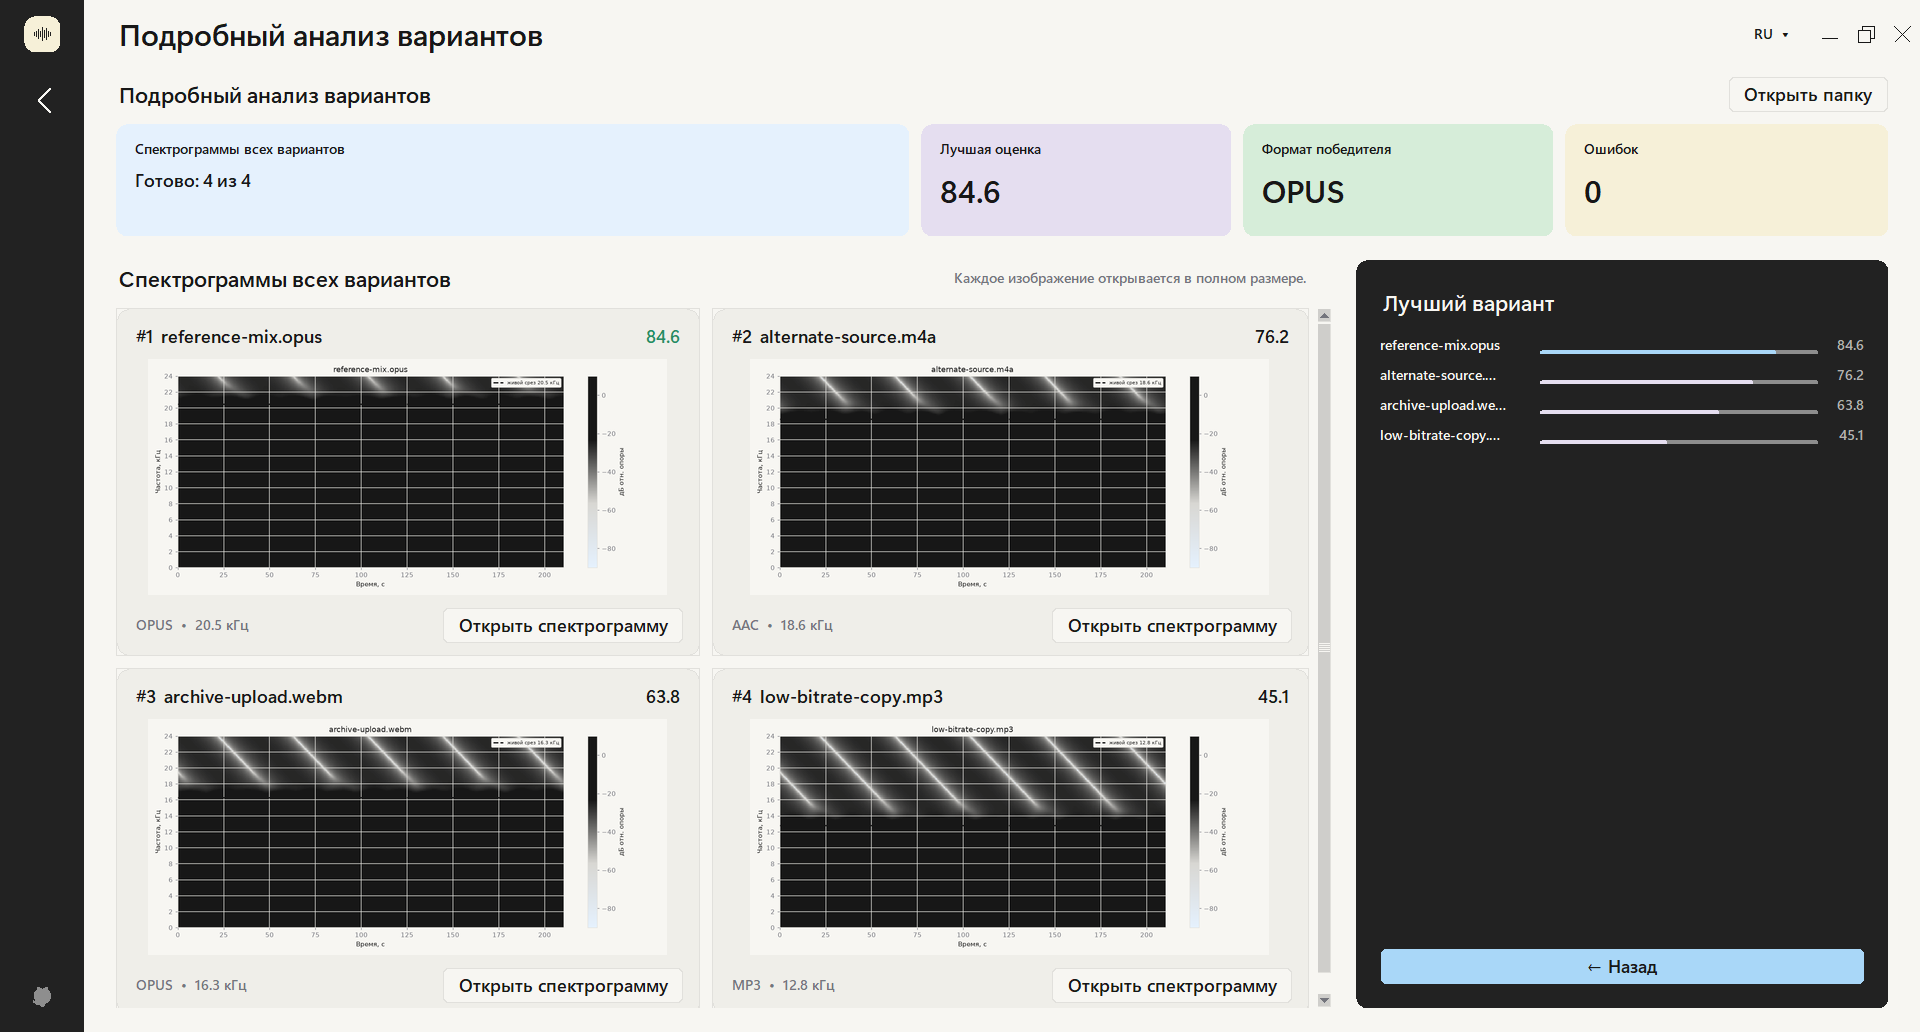
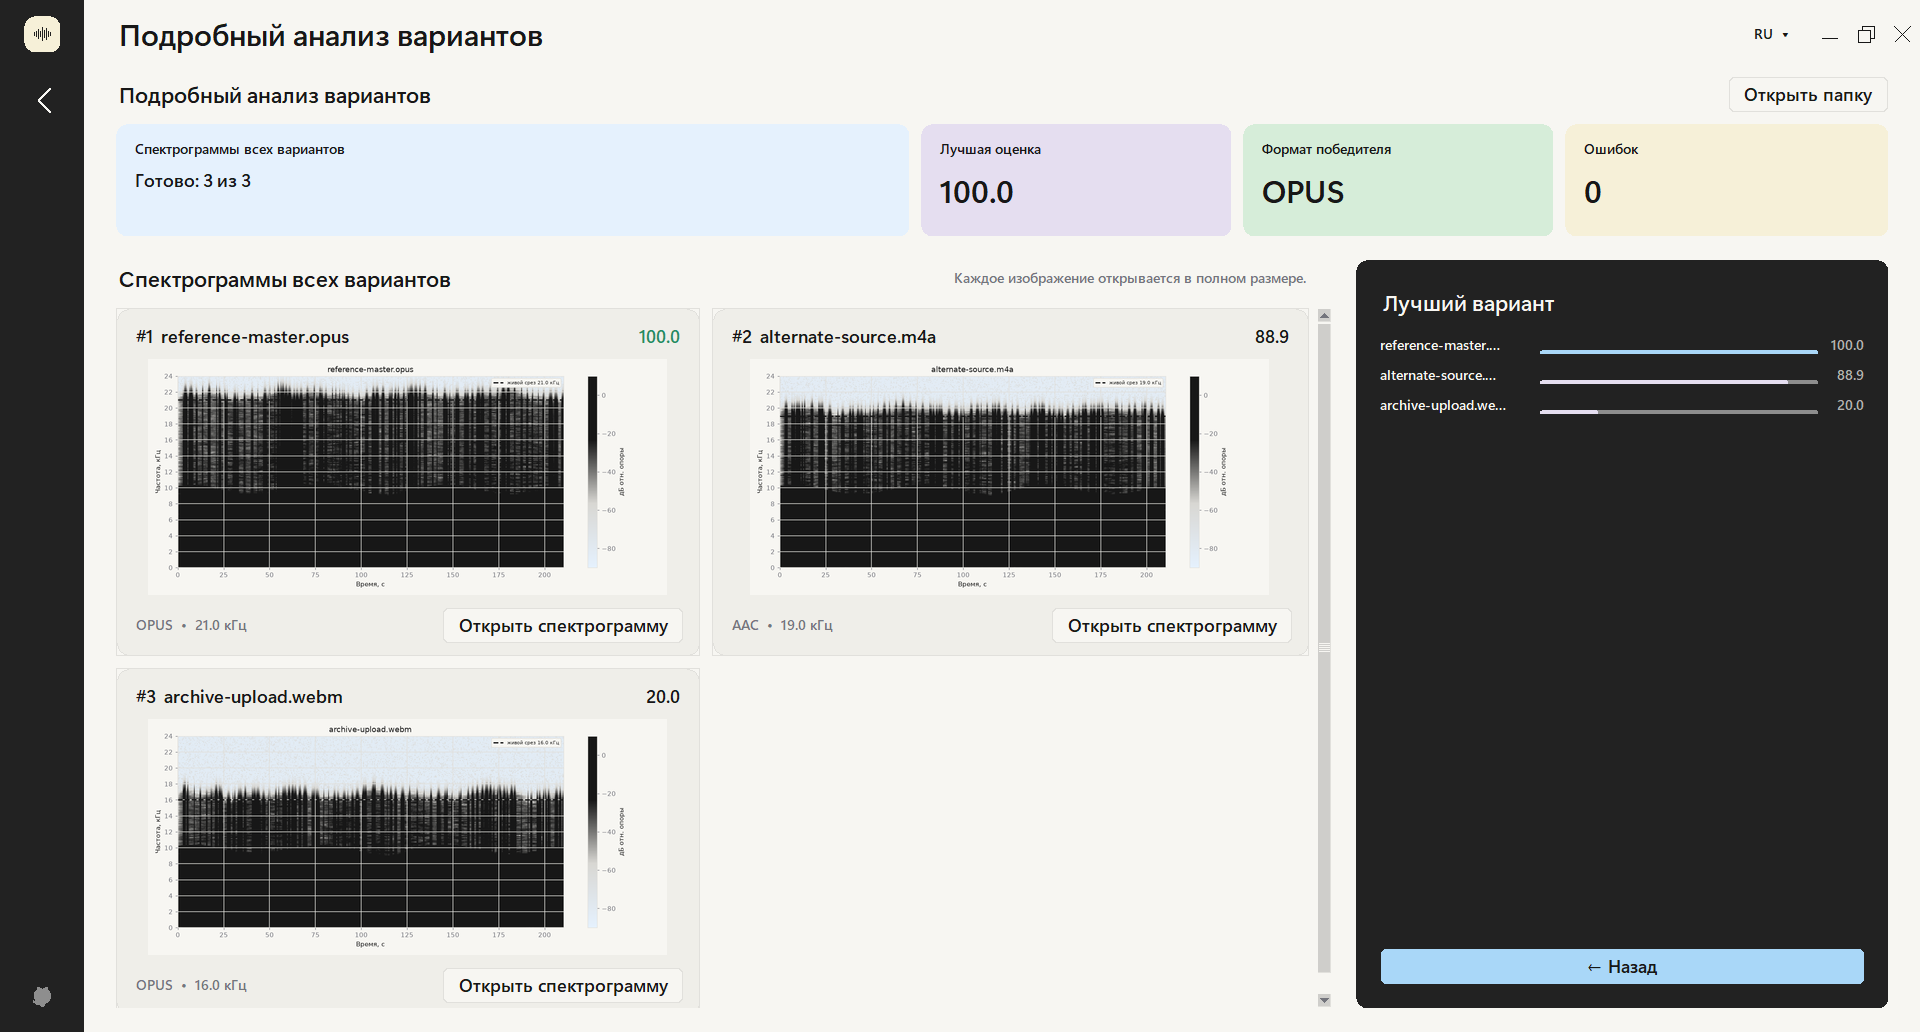
Release TrackJudge v1.2.1 evidence fix

diff --git a/src/trackjudge/gui.py b/src/trackjudge/gui.py
@@ -4717,56 +4717,130 @@ def _show_startup_error(message: str) -> None:
 
 
 def _prepare_analysis_preview(window: TrackJudgeWindow) -> None:
-    """Create realistic local spectrograms for visual regression screenshots."""
+    """Create an internally consistent demo report for visual regression screenshots."""
     import numpy as np
 
     preview_folder = tempfile.mkdtemp(prefix="trackjudge-analysis-preview-")
     candidates = [
         {
             "rank": 1,
-            "file_name": "reference-mix.opus",
+            "file_name": "reference-master.opus",
             "codec": "opus",
-            "score": 84.6,
-            "effective_cutoff_hz": 20500.0,
+            "score": 100.0,
+            "effective_cutoff_hz": 21000.0,
         },
         {
             "rank": 2,
             "file_name": "alternate-source.m4a",
             "codec": "aac",
-            "score": 76.2,
-            "effective_cutoff_hz": 18600.0,
+            "score": 88.9,
+            "effective_cutoff_hz": 19000.0,
         },
         {
             "rank": 3,
             "file_name": "archive-upload.webm",
             "codec": "opus",
-            "score": 63.8,
-            "effective_cutoff_hz": 16300.0,
-        },
-        {
-            "rank": 4,
-            "file_name": "low-bitrate-copy.mp3",
-            "codec": "mp3",
-            "score": 45.1,
-            "effective_cutoff_hz": 12800.0,
+            "score": 20.0,
+            "effective_cutoff_hz": 16000.0,
         },
     ]
     frequencies = np.linspace(0.0, 24000.0, 180)
     times = np.linspace(0.0, 210.0, 420)
     for index, candidate in enumerate(candidates):
         cutoff = float(candidate["effective_cutoff_hz"])
-        envelope = np.exp(-frequencies / (9000.0 - index * 900.0))
-        envelope *= 1.0 / (1.0 + np.exp((frequencies - cutoff) / 320.0))
-        rhythm = 0.34 + 0.66 * np.square(np.sin(times * (0.17 + index * 0.012)))
-        harmonics = 0.72 + 0.28 * np.square(np.sin(frequencies[:, None] / 650.0 + times / 5.0))
-        spectrum = envelope[:, None] * rhythm[None, :] * harmonics
-        spectrum += 0.0025 * np.square(np.sin(frequencies[:, None] / 3100.0 + times / 13.0))
+        rng = np.random.default_rng(7300 + index)
+
+        # A dense musical texture: spectral tilt, changing sections, horizontal
+        # harmonic bands and short broadband transients.  The previous fixture
+        # used diagonal sine bands, which looked unlike an audio spectrogram.
+        spectral_tilt = np.exp(-frequencies / (7600.0 - index * 450.0))
+        cutoff_drift = rng.normal(0.0, 1.0, times.size)
+        drift_kernel = np.hanning(35)
+        drift_kernel /= np.sum(drift_kernel)
+        cutoff_drift = np.convolve(cutoff_drift, drift_kernel, mode="same")
+        cutoff_drift /= max(float(np.std(cutoff_drift)), 1.0e-9)
+        local_cutoff = (
+            cutoff
+            + 260.0 * np.sin(times / 8.7 + index * 0.4)
+            + 135.0 * np.sin(times / 2.9 + 1.2)
+            + 190.0 * cutoff_drift
+        )
+        cutoff_mask = 1.0 / (
+            1.0 + np.exp((frequencies[:, None] - local_cutoff[None, :]) / 145.0)
+        )
+        section_times = np.linspace(times[0], times[-1], 22)
+        section_levels = rng.uniform(0.16, 1.0, section_times.size)
+        section_levels[0] *= 0.18
+        section_levels[-1] *= 0.12
+        sections = np.interp(times, section_times, section_levels)
+
+        noise = rng.random((frequencies.size, times.size))
+        kernel = np.ones(9) / 9.0
+        texture = np.apply_along_axis(
+            lambda row, smoothing_kernel=kernel: np.convolve(
+                row,
+                smoothing_kernel,
+                mode="same",
+            ),
+            1,
+            noise,
+        )
+        spectrum = np.full((frequencies.size, times.size), 2.0e-10)
+        spectrum += (
+            spectral_tilt[:, None]
+            * cutoff_mask
+            * sections[None, :]
+            * (2.0e-6 + 0.012 * np.power(texture, 4.0))
+        )
+
+        harmonic_bands = np.zeros_like(spectrum)
+        fundamental = 92.0 + 7.0 * np.sin(times / 16.0)
+        for harmonic in range(1, 70):
+            center = fundamental * harmonic
+            width = 15.0 + harmonic * 1.15
+            band = np.exp(-0.5 * ((frequencies[:, None] - center[None, :]) / width) ** 2)
+            phrase = 0.03 + 0.97 * np.square(
+                np.sin(times * (0.052 + (harmonic % 7) * 0.006) + harmonic * 0.71)
+            )
+            harmonic_bands += band * phrase[None, :] * (0.34 / np.sqrt(harmonic))
+
+        second_fundamental = 173.0 + 11.0 * np.sin(times / 11.0 + 0.8)
+        for harmonic in range(1, 56):
+            center = second_fundamental * harmonic
+            width = 18.0 + harmonic * 1.35
+            band = np.exp(-0.5 * ((frequencies[:, None] - center[None, :]) / width) ** 2)
+            phrase = 0.02 + 0.98 * np.square(
+                np.sin(times * (0.067 + (harmonic % 5) * 0.008) + harmonic * 0.43)
+            )
+            harmonic_bands += band * phrase[None, :] * (0.19 / np.sqrt(harmonic))
+        spectrum += harmonic_bands * cutoff_mask * sections[None, :]
+
+        transients = np.zeros(times.size)
+        beat = 0.8
+        while beat < times[-1]:
+            beat += rng.uniform(0.55, 4.3)
+            width = rng.uniform(0.07, 0.34)
+            amplitude = rng.uniform(0.18, 1.0)
+            transients += amplitude * np.exp(-0.5 * ((times - beat) / width) ** 2)
+        spectrum += (
+            0.62
+            * spectral_tilt[:, None]
+            * cutoff_mask
+            * transients[None, :]
+        )
+
+        # Encoders leave weak, intermittent residue above the measured edge.
+        # It should be visible at full size without forming a perfect boundary.
+        residue = rng.random((frequencies.size, times.size)) ** 12
+        spectrum += 2.5e-7 * spectral_tilt[:, None] * residue
+        reference_band = (frequencies >= 1000.0) & (frequencies <= 5000.0)
+        reference_level = float(np.median(np.median(spectrum, axis=1)[reference_band]))
         output = str(Path(preview_folder) / f"candidate-{index + 1}.png")
         render_spectrogram(
             frequencies,
             times,
             spectrum,
-            float(np.max(spectrum)),
+            reference_level,
             24000.0,
             cutoff,
             cutoff,

diff --git a/src/trackjudge/__init__.py b/src/trackjudge/__init__.py
@@ -1,3 +1,3 @@
 """TrackJudge: rank audio candidates by spectral quality."""
 
-__version__ = "1.2.0"
+__version__ = "1.2.1"
